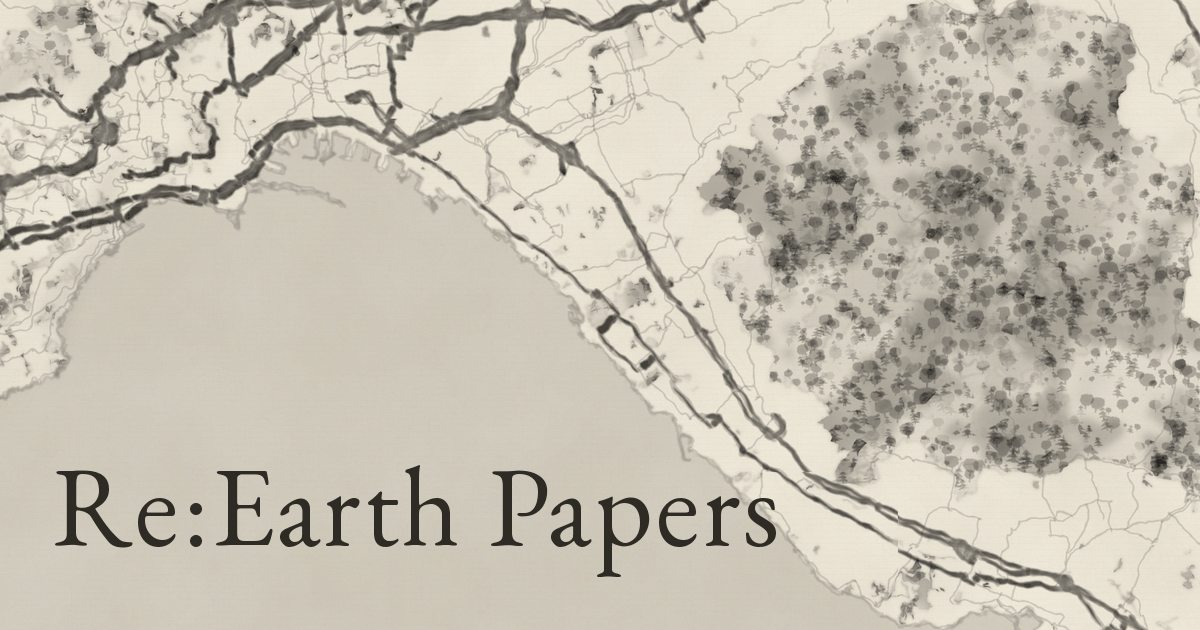
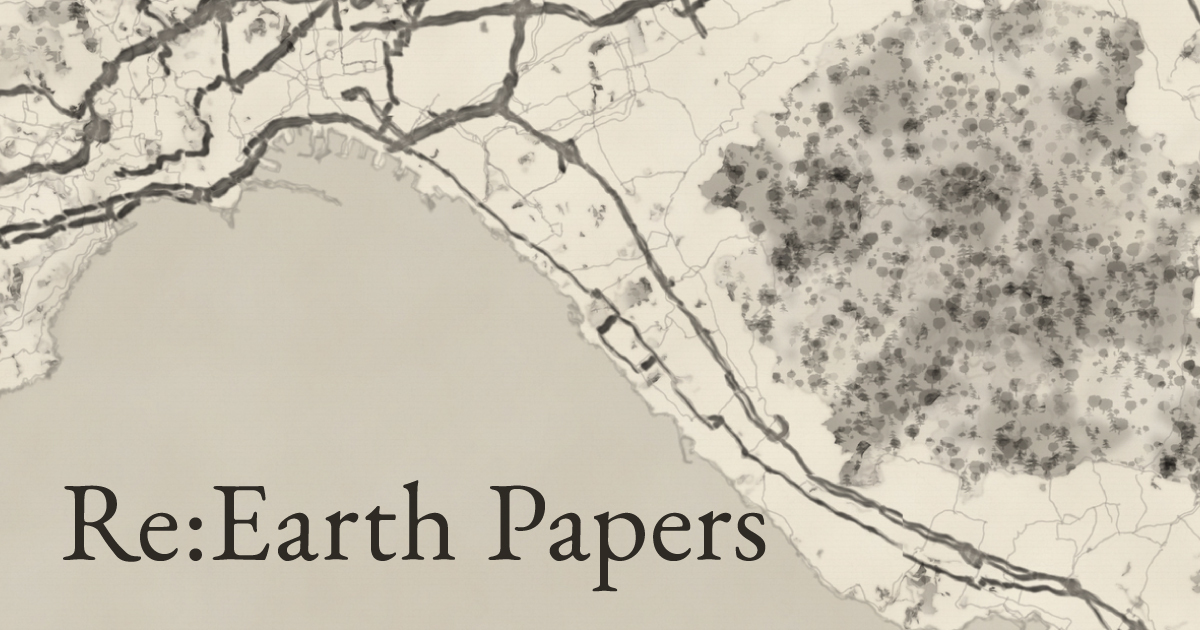
feat: replace the social card with the hand-kerned one
public/og.png is now a hand-kerned edit, not scripts/og.py output.
Mark the script archived so nobody regenerates over it.

Claude-Session: https://claude.ai/code/session_01NwGxEhuYYcnNFMfKNbETZU

diff --git a/scripts/og.py b/scripts/og.py
@@ -1,6 +1,14 @@
 #!/usr/bin/env python3
 """Draw the social card and the favicon.
 
+ARCHIVED — do not run this against public/. The committed public/og.png
+is no longer this script's output: its title was kerned by hand in an
+image editor on top of a render from here, and running this again with
+`--out public` overwrites that hand-tuned card with the machine one.
+The script is kept as the record of how the render was made (framing,
+type, ink); if the card ever needs regenerating, render to another
+directory and redo the kerning by hand.
+
 Both are artwork, not build output: they are rendered once, committed,
 and served as static files. This script exists so that "once" is
 repeatable — the framing, the type and the ink are parameters here

diff --git a/scripts/README.md b/scripts/README.md
@@ -74,6 +74,11 @@ tilesets with no data yet still produce a valid PNG instead of failing.
 
 ## og.py
 
+**Archived.** The committed `public/og.png` is a hand-kerned edit on
+top of this script's render; running it with `--out public` overwrites
+that. Keep it as the record of how the card was made, not as a build
+step.
+
 Draws the two pieces of artwork this site shows of itself: the social
 card (`public/og.png`, 1200×630) and the favicon
 (`public/favicon.ico`, `icon-512.png`, `apple-touch-icon.png`). Both are
